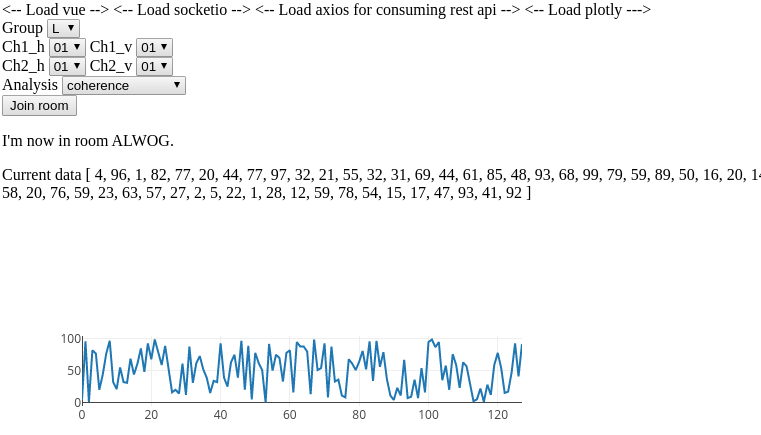
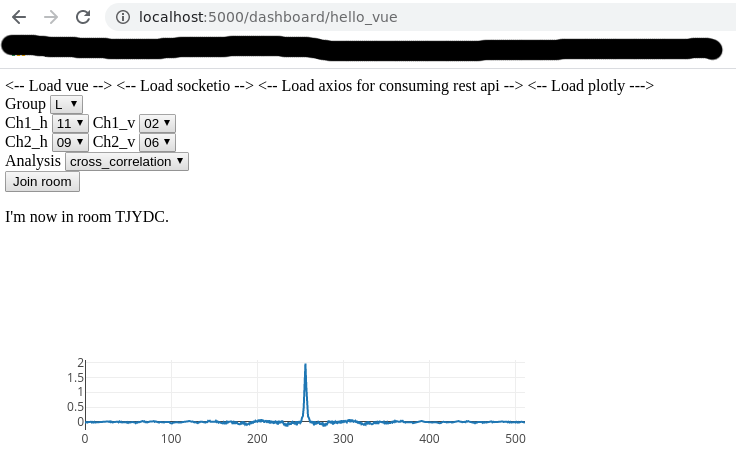
Got updates from mongodb working

Changed region(s): [[0.0, 0.0, 1.0, 0.4782], [0.0938, 0.7471, 0.7188, 0.9563]]

diff --git a/dashboard/templates/hello_vue.html b/dashboard/templates/hello_vue.html
@@ -67,7 +67,7 @@
       <br>
       <button v-on:click="onClicked_comp"> Join room </button>
       <p>I'm now in room {{ current_room }}.</p>
-      <p> Current data {{ current_data }} </p>
+      <!-- Current data {{ current_data }} -->
 
     </div>
 

diff --git a/dashboard/room_manager.py b/dashboard/room_manager.py
@@ -13,30 +13,82 @@ import gridfs
 
 from .channel import channel, channel_pair
 
-  
+
+
+def mongo_query(fs, mongo_coll, mongo_filter):
+    """Queries analysis results from mongodb gridfs
+
+    Input:
+    ------
+    fs, gridfs.GridFS: Link to the gridfs instance we are querying
+    mongo_coll, pymongo.collection.Collection: Collection to be queired
+    mongo_filter, dict: Filter used to query
+    ch_idx, int: Index of gridfs array to return
+
+    Returns:
+    --------
+    anl_result, ndarray: Result of the analysis
+    """
+
+    print(mongo_filter)
+    anl_entry = mongo_coll.find_one(mongo_filter)
+    print(anl_entry)
+    gridfs_id = anl_entry['result_gridfs']
+    print(gridfs_id)
+    res = fs.get(gridfs_id)
+    print(res)
+    gridfs_data = res.read()
+    t1 = pickle.loads(gridfs_data)
+
+    return t1
+
+
 
 class InterruptibleThread:
     """Define an interruptible thread that is gathering data for an db_update_channel"""
     def __init__(self, socketio):
         self._running = True
-        self.socketio = socketio  
+        self.socketio = socketio
 
     def terminate(self):
         self._running = False
 
-    def check_db_for_updates(self, room_name):
+    def check_db_for_updates(self, fs, mongo_coll, mongo_filter, ch_idx, room_id):
         """This process runs in the background and checks the DB for updates"""
         # Open a change stream on the data collection.
         # https://api.mongodb.com/python/current/api/pymongo/collection.html#pymongo.collection.Collection.watch
 
-        #for _ in range(50):
-        while self._running:  
+        # Get max time index where that we have data for:
+        max_idx = mongo_coll.count_documents({"analysis_name": mongo_filter["analysis_name"],
+                                              "description": "analysis results",
+                                              "tidx": {"$gt": 0}})
+        for tidx in range(max_idx):
             self.socketio.sleep(seconds=1.0) 
-            print(f"Creating random channel NEWTHINGS!!! data for room {room_name}")
+            print(f"Querying mongo {tidx}/{max_idx}")
+            mongo_filter.update({"tidx": tidx})
+            print("mongo_filter = ", mongo_filter)
+            # Find the entry for the current time index
+            anl_entry = mongo_coll.find_one(mongo_filter)
+            # Extract the link to the gridfs file
+            gridfs_id = anl_entry['result_gridfs']
+            # Extract file from gridfs
+            res = fs.get(gridfs_id)
+            gridfs_data = res.read()
+            t1 = pickle.loads(gridfs_data)
+            # Get selected channel index
+            data = t1[ch_idx, :]
+            print("new_data: ", data)
+            # Push data to web-client
+            self.socketio.emit("new_data", {"data": data.tolist()}, room=room_id)
 
-            #data = np.random.normal(0.0, 1.0, size=(128,))
-            data = np.random.randint(0, 100, size=(128,))
-            self.socketio.emit("new_data", {"data": data.tolist()}, room=room_name)
+
+        # while self._running:  
+        #     self.socketio.sleep(seconds=1.0) 
+        #     print(f"Creating random channel NEWTHINGS!!! data for room {room_id}")
+
+            
+        #     data = np.random.randint(0, 100, size=(128,))
+        #     self.socketio.emit("new_data", {"data": data.tolist()}, room=room_id)
 
         print("--- InterruptibleThread: Exiting")  
 
@@ -54,6 +106,7 @@ class room_manager():
         self.subscribed_clients = []
         self.thread = None
 
+
         with open("mongo_secret", "r") as df:
             lines = df.readlines()
         mongo_uri = lines[0].strip()
@@ -63,11 +116,11 @@ class room_manager():
 
         #print(f"__{mongo_user}__, __{mongo_pass}__")
         client = MongoClient(mongo_uri, username=mongo_user, password=mongo_pass)
-        db = client.get_database()
-        coll = db[mongo_collection]
+        self.db = client.get_database()
+        self.coll = self.db[mongo_collection]
 
         # Get the channel serialization for the analysis
-        res = coll.find_one({"description": "metadata", "analysis": self.analysis_type})
+        res = self.coll.find_one({"description": "metadata", "analysis": self.analysis_type})
 
         target_pair = channel_pair(self.ch1, self.ch2)
         print(f"Looking for channel index of {target_pair}")
@@ -80,9 +133,12 @@ class room_manager():
             if (channel_pair(channel1, channel2) == target_pair):
                 print(f"Found target pair with index {chpair_idx}")
 
-            
+        self.chpair_idx = chpair_idx
 
-  
+        # mongo_filter defines what the room pulls out of the change stream
+        self.mongo_filter = {"analysis_name": self.analysis_type, "description": "analysis results"}
+        self.fs = gridfs.GridFS(self.db)
+
 
     def __eq__(self, other):
         return((self.ch1 == other.ch1) & (self.ch2 == other.ch2) & (self.analysis_type == other.analysis_type))
@@ -99,7 +155,7 @@ class room_manager():
         print(f"--- manage_room.add_client: adding client {client_sid} to {self.room_id}")
         if len(self.subscribed_clients) == 0:
             self.thread = InterruptibleThread(socketio)
-            socketio.start_background_task(self.thread.check_db_for_updates, self.room_id)
+            socketio.start_background_task(self.thread.check_db_for_updates, self.fs, self.coll, self.mongo_filter, self.chpair_idx, self.room_id)
 
         self.subscribed_clients.append(client_sid)  
 

diff --git a/dashboard/main/dashboard_api.py b/dashboard/main/dashboard_api.py
@@ -84,7 +84,7 @@ class open_rooms(Resource):
                 (loop_room.ch2 == new_ch2) & 
                 (loop_room.analysis_type == args["analysis"])):
                 current_app.logger.info(f"In open_rooms::get: Room {loop_room.room_id} has the requested configuration")
-                return({"active_room": room.room_id})
+                return({"active_room": room_id.room_id})
             else:
                 current_app.logger.info(f"In open_rooms::get: Active room {room_id} has different configuration than the one requested")
 
